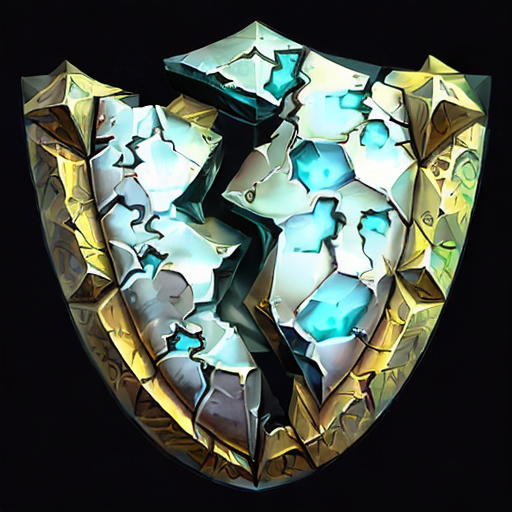
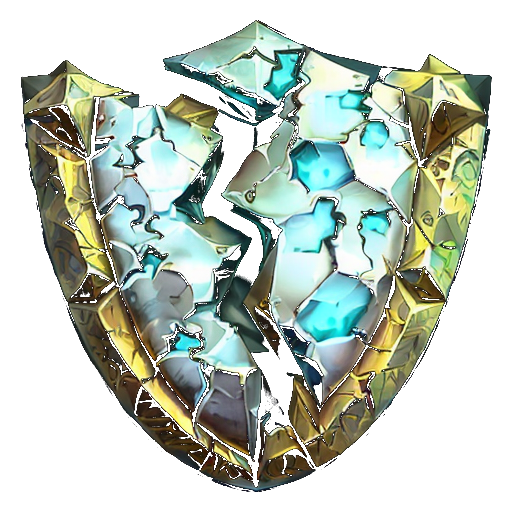
add metal frame texture for tower upgrade buttons
This concludes the current iteration for the tower upgrade buttons. The switches are a bit brighter to make it more clear which upgrades are owned. The frame also help them look like a complete component.

diff --git a/Assets/Resources/UI/Screens/Terrarium/ContextPanel/TowerDetail.cs b/Assets/Resources/UI/Screens/Terrarium/ContextPanel/TowerDetail.cs
@@ -123,19 +123,25 @@ public class TowerDetail : MonoBehaviour {
   }
 
   private void HandleTowerUpgradeCallback(ClickEvent evt) {
-    Button button = Utilities.GetAncestor<Button>(evt.target as VisualElement);
-    if (button == null) return;
+    Button rockerSwitch = Utilities.GetAncestor<Button>(evt.target as VisualElement);
+    if (rockerSwitch == null) return;
+    if (rockerSwitch.ClassListContains("rocker-switch-on")) return;
 
-    TowerAbility upgrade = GetUpgradeFromButtonName(button.name);
+    ButtonWithTooltip icon = rootElement.Q<ButtonWithTooltip>(rockerSwitch.name);
+    if (icon == null) return;
+
+    TowerAbility upgrade = GetUpgradeFromButtonName(rockerSwitch.name);
 
     if (GameStateManager.Instance.Nu < upgrade.cost) {
       return;
     }
 
+    rockerSwitch.AddToClassList("rocker-switch-on");
+    rockerSwitch.RemoveFromClassList("rocker-switch-off");
+
     GameStateManager.Instance.Nu -= upgrade.cost;
-    button.AddToClassList("rocker-switch-on");
-    button.RemoveFromClassList("rocker-switch-off");
     TowerManager.SelectedTower.Upgrade(upgrade);
+
     SetContextForTower(TowerManager.SelectedTower);
   }
 
@@ -198,7 +204,6 @@ public class TowerDetail : MonoBehaviour {
     for (int j = 0; j < 5; j++) {
         towerUpgradeIcons[i, j].TooltipText = tower.GetUpgradePath(i)[j].description;
         string imgPath = "UI/images/tower upgrades/" + tower.Name + "/" + upgradePathName.ToLower() + " " + j;
-        Debug.Log(imgPath);
         towerUpgradeIcons[i, j].style.backgroundImage = Resources.Load<Texture2D>(imgPath);
       }
     }
